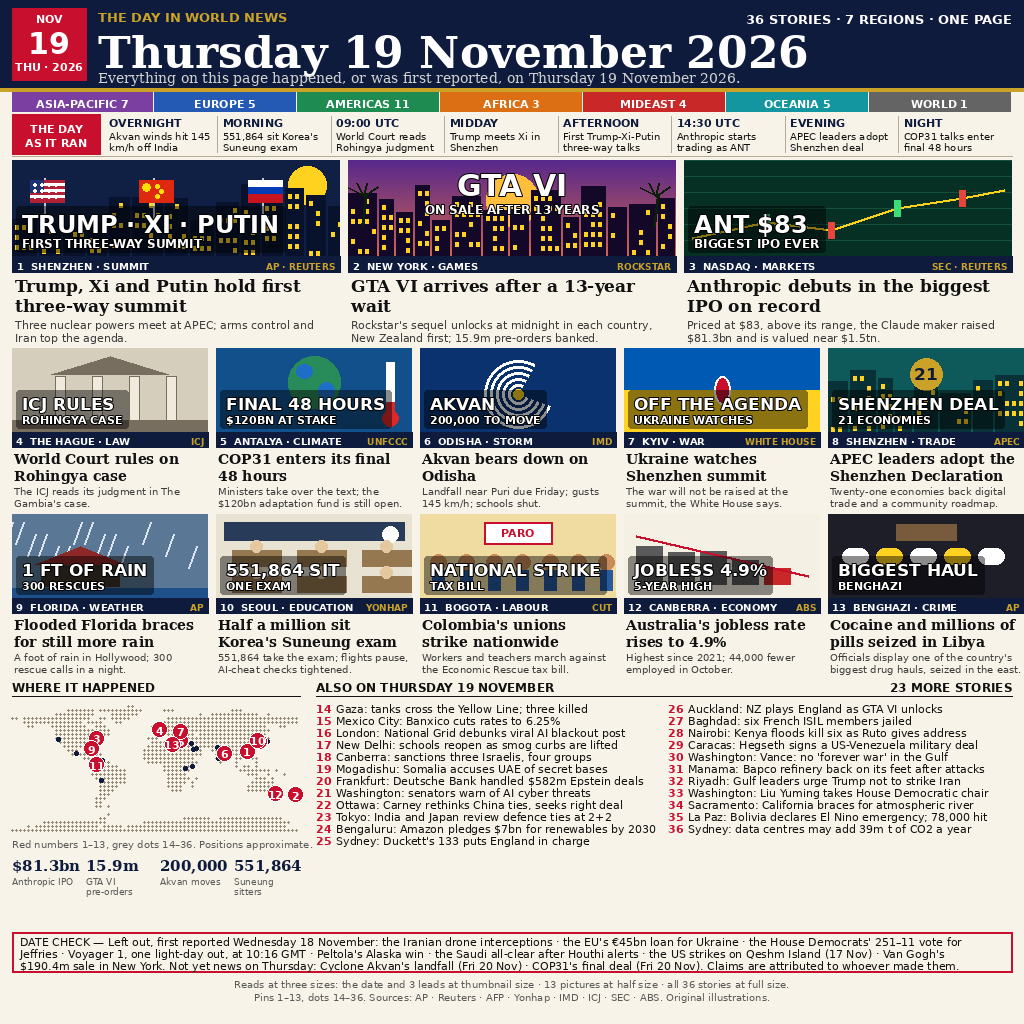
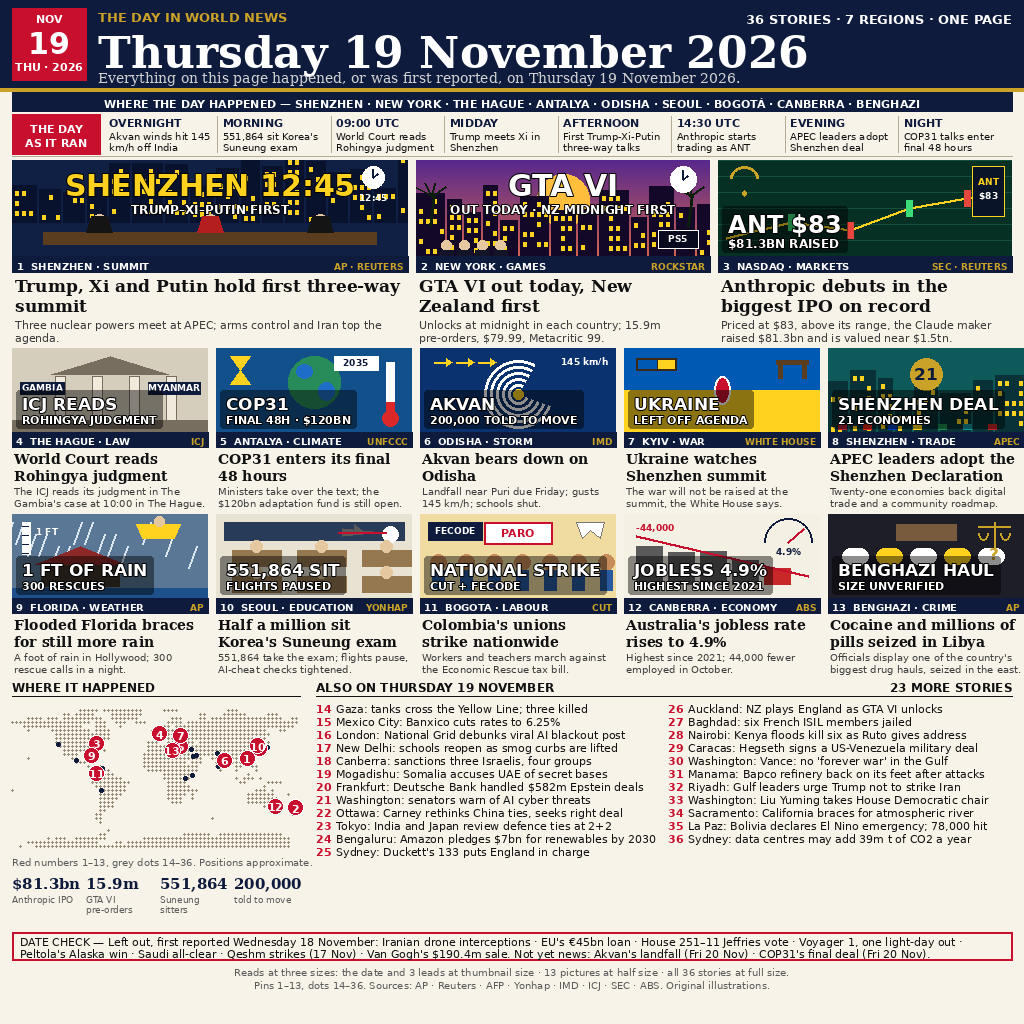
news-image-20261119 v2: DeepSeek (100milionseek) art direction - scenes not name-plates, rewritten labels, where-line, thin DATE CHECK

diff --git a/draw.py b/draw.py
@@ -1,10 +1,12 @@
 #!/usr/bin/env python3
-"""news-image-20261119 v1: 36 stories, UTC timeline, region strip, short in-art labels.
+"""news-image-20261119 v2: 36 stories, DeepSeek (100milionseek) art direction.
 Draws entry.png (1024x1024, deterministic) from world.geo.json only.
-Art is flat vector drawn in code (no photo assets), in the style of the
-entries leading the live leaderboard for this day: navy masthead, 3 heroes,
-10 small cards, map + also-strip, DATE CHECK. Every front picture carries a
-short to-the-point label inside the picture itself.
+v2 vs v1: heroes are scenes not name-plates (leaders at a table, NZ midnight
+queue, Nasdaq tower + bell); labels rewritten 2-line rstrike style; region
+counts replaced by a where-the-day-happened line; DATE CHECK shrunk to a
+thin band; lead hero 396 wide; stats $81.3bn / 15.9m / 551,864 / 200,000
+told to move. Every front picture carries a short to-the-point label inside
+the picture itself.
 Run: python3 draw.py  -> writes entry.png in this directory."""
 import json
 import math
@@ -86,31 +88,31 @@ FRONT = [
     (1, "SHENZHEN", "SUMMIT", "AP \u00b7 REUTERS",
      "Trump, Xi and Putin hold first three-way summit",
      "Three nuclear powers meet at APEC; arms control and Iran top the agenda.",
-     "TRUMP \u00b7 XI \u00b7 PUTIN", "FIRST THREE-WAY SUMMIT", "summit"),
+     "SHENZHEN 12:45", "TRUMP\u2013XI\u2013PUTIN FIRST", "summit"),
     (2, "NEW YORK", "GAMES", "ROCKSTAR",
-     "GTA VI arrives after a 13-year wait",
-     "Rockstar's sequel unlocks at midnight in each country, New Zealand first; 15.9m pre-orders banked.",
-     "GTA VI", "ON SALE AFTER 13 YEARS", "gta"),
+     "GTA VI out today, New Zealand first",
+     "Unlocks at midnight in each country; 15.9m pre-orders, $79.99, Metacritic 99.",
+     "GTA VI", "OUT TODAY \u00b7 NZ MIDNIGHT FIRST", "gta"),
     (3, "NASDAQ", "MARKETS", "SEC \u00b7 REUTERS",
      "Anthropic debuts in the biggest IPO on record",
      "Priced at $83, above its range, the Claude maker raised $81.3bn and is valued near $1.5tn.",
-     "ANT $83", "BIGGEST IPO EVER", "anthropic"),
+     "ANT $83", "$81.3BN RAISED", "anthropic"),
     (4, "THE HAGUE", "LAW", "ICJ",
-     "World Court rules on Rohingya case",
-     "The ICJ reads its judgment in The Gambia's case.",
-     "ICJ RULES", "ROHINGYA CASE", "icj"),
+     "World Court reads Rohingya judgment",
+     "The ICJ reads its judgment in The Gambia's case at 10:00 in The Hague.",
+     "ICJ READS", "ROHINGYA JUDGMENT", "icj"),
     (5, "ANTALYA", "CLIMATE", "UNFCCC",
      "COP31 enters its final 48 hours",
      "Ministers take over the text; the $120bn adaptation fund is still open.",
-     "FINAL 48 HOURS", "$120BN AT STAKE", "cop31"),
+     "COP31", "FINAL 48H \u00b7 $120BN", "cop31"),
     (6, "ODISHA", "STORM", "IMD",
      "Akvan bears down on Odisha",
      "Landfall near Puri due Friday; gusts 145 km/h; schools shut.",
-     "AKVAN", "200,000 TO MOVE", "akvan"),
+     "AKVAN", "200,000 TOLD TO MOVE", "akvan"),
     (7, "KYIV", "WAR", "WHITE HOUSE",
      "Ukraine watches Shenzhen summit",
      "The war will not be raised at the summit, the White House says.",
-     "OFF THE AGENDA", "UKRAINE WATCHES", "ukraine"),
+     "UKRAINE", "LEFT OFF AGENDA", "ukraine"),
     (8, "SHENZHEN", "TRADE", "APEC",
      "APEC leaders adopt the Shenzhen Declaration",
      "Twenty-one economies back digital trade and a community roadmap.",
@@ -122,19 +124,19 @@ FRONT = [
     (10, "SEOUL", "EDUCATION", "YONHAP",
      "Half a million sit Korea's Suneung exam",
      "551,864 take the exam; flights pause, AI-cheat checks tightened.",
-     "551,864 SIT", "ONE EXAM", "suneung"),
+     "551,864 SIT", "FLIGHTS PAUSED", "suneung"),
     (11, "BOGOTA", "LABOUR", "CUT",
      "Colombia's unions strike nationwide",
      "Workers and teachers march against the Economic Rescue tax bill.",
-     "NATIONAL STRIKE", "TAX BILL", "colombia"),
+     "NATIONAL STRIKE", "CUT + FECODE", "colombia"),
     (12, "CANBERRA", "ECONOMY", "ABS",
      "Australia's jobless rate rises to 4.9%",
      "Highest since 2021; 44,000 fewer employed in October.",
-     "JOBLESS 4.9%", "5-YEAR HIGH", "australia"),
+     "JOBLESS 4.9%", "HIGHEST SINCE 2021", "australia"),
     (13, "BENGHAZI", "CRIME", "AP",
      "Cocaine and millions of pills seized in Libya",
      "Officials display one of the country's biggest drug hauls, seized in the east.",
-     "BIGGEST HAUL", "BENGHAZI", "libya"),
+     "BENGHAZI HAUL", "SIZE UNVERIFIED", "libya"),
 ]
 
 # num, city, text
@@ -167,8 +169,8 @@ ALSO = [
 STATS = [
     ("$81.3bn", "Anthropic IPO"),
     ("15.9m", "GTA VI pre-orders"),
-    ("200,000", "Akvan moves"),
     ("551,864", "Suneung sitters"),
+    ("200,000", "told to move"),
 ]
 
 PINS = {
@@ -290,12 +292,19 @@ def art_image(key, w, h):
     d = ImageDraw.Draw(img)
     if key == "summit":
         d.rectangle([0, 0, w, h], fill=(16, 32, 68))
-        d.ellipse([w - 52, 6, w - 14, 44], fill=(255, 210, 31))
-        _skyline(d, w, h, h, (8, 18, 44), 7)
-        for i, kind in enumerate(["us", "cn", "ru"]):
-            fx = 18 + i * (w // 3)
-            d.line([fx + 14, 18, fx + 14, 62], fill=(200, 200, 200), width=2)
-            _flag(d, fx, 20, 34, 22, kind)
+        _skyline(d, w, h, h - 34, (8, 18, 44), 7)
+        # wall clock 12:45, top right (focal text occupies the centre top)
+        d.ellipse([w - 46, 6, w - 24, 28], fill="white")
+        d.line([w - 35, 17, w - 35, 9], fill=NAVY, width=2)
+        d.line([w - 35, 17, w - 30, 13], fill=NAVY, width=2)
+        d.text((w - 35, 32), "12:45", font=F_SRC, fill="white", anchor="ma")
+        # three leaders seated at one round table (below the focal text)
+        d.rectangle([w * 0.08, h - 24, w * 0.92, h - 12], fill=(90, 60, 30))
+        for i in range(3):
+            cx = int(w * (0.22 + i * 0.28))
+            d.ellipse([cx - 9, h - 42, cx + 9, h - 24], fill=(230, 200, 160))
+            d.polygon([(cx - 13, h - 24), (cx + 13, h - 24), (cx + 8, h - 40),
+                       (cx - 8, h - 40)], fill=(20, 20, 20) if i != 1 else (180, 30, 30))
     elif key == "gta":
         for i in range(h):
             t = i / h
@@ -310,6 +319,17 @@ def art_image(key, w, h):
                 d.line([px + 2, h - 60, px + 2 + int(22 * math.sin(math.radians(a))),
                         h - 60 - int(14 * abs(math.cos(math.radians(a))))],
                        fill=(10, 30, 10), width=2)
+        # NZ midnight: clock striking 12 top right, queue outside a shop, PS5 box
+        d.ellipse([w - 40, 6, w - 14, 32], fill="white")
+        d.line([w - 27, 19, w - 27, 10], fill=NAVY, width=2)
+        d.line([w - 27, 19, w - 22, 15], fill=NAVY, width=2)
+        d.rectangle([w - 52, h - 26, w - 12, h - 8], fill=(10, 10, 30),
+                    outline="white", width=1)
+        d.text((w - 32, h - 17), "PS5", font=F_SRC, fill="white", anchor="mm")
+        for i in range(4):
+            cx = 30 + i * 18
+            d.ellipse([cx - 5, h - 16, cx + 5, h - 6], fill=(230, 200, 160))
+            d.rectangle([cx - 7, h - 6, cx + 7, h], fill=(20, 20, 40))
     elif key == "anthropic":
         d.rectangle([0, 0, w, h], fill=(6, 48, 36))
         for gy in range(0, h, 16):
@@ -321,6 +341,13 @@ def art_image(key, w, h):
         for i, (cx, cy) in enumerate(pts[1:-1]):
             col = (60, 220, 120) if i % 2 == 0 else (230, 70, 60)
             d.rectangle([cx - 3, cy - 8, cx + 3, cy + 8], fill=col)
+        # Nasdaq tower with ANT screen + opening bell
+        d.rectangle([w - 40, 6, w - 8, h - 40], fill=(10, 20, 40),
+                    outline=(255, 210, 31), width=1)
+        d.text((w - 24, 16), "ANT", font=F_SRC, fill=(255, 210, 31), anchor="ma")
+        d.text((w - 24, 30), "$83", font=F_SRC, fill="white", anchor="ma")
+        d.arc([12, 6, 40, 30], 180, 360, fill=GOLD, width=3)
+        d.ellipse([24, 30, 28, 36], fill=GOLD)
     elif key == "icj":
         d.rectangle([0, 0, w, h], fill=(214, 206, 188))
         d.polygon([(w * 0.2, 26), (w * 0.8, 26), (w * 0.5, 8)], fill=(120, 110, 95))
@@ -329,6 +356,11 @@ def art_image(key, w, h):
             d.rectangle([cx, 28, cx + 10, h - 12], fill=(240, 234, 220),
                         outline=(120, 110, 95))
         d.rectangle([0, h - 12, w, h], fill=(120, 110, 95))
+        # nameplates Gambia v Myanmar (footprints dropped: scrim covers the bottom)
+        d.rectangle([8, 34, 52, 46], fill=NAVY)
+        d.text((30, 40), "GAMBIA", font=F_SRC, fill="white", anchor="mm")
+        d.rectangle([w - 60, 34, w - 8, 46], fill=NAVY)
+        d.text((w - 34, 40), "MYANMAR", font=F_SRC, fill="white", anchor="mm")
     elif key == "cop31":
         d.rectangle([0, 0, w, h], fill=(18, 80, 140))
         d.ellipse([w // 2 - 26, 8, w // 2 + 26, 60], fill=(40, 140, 90))
@@ -337,6 +369,11 @@ def art_image(key, w, h):
         d.rectangle([w - 26, 14, w - 18, h - 14], fill="white")
         d.rectangle([w - 26, h - 30, w - 18, h - 14], fill=(220, 40, 40))
         d.ellipse([w - 30, h - 22, w - 14, h - 6], fill=(220, 40, 40))
+        # 48-hour hourglass top left + draft page stamped 2035 top right
+        d.polygon([(14, 8), (34, 8), (24, 22), (14, 36), (34, 36), (24, 22)],
+                  fill=(255, 210, 31))
+        d.rectangle([w - 78, 8, w - 34, 22], fill="white")
+        d.text((w - 56, 15), "2035", font=F_SRC, fill=NAVY, anchor="mm")
     elif key == "akvan":
         d.rectangle([0, 0, w, h], fill=(10, 50, 110))
         cx, cy = w // 2, h // 2 + 4
@@ -344,16 +381,37 @@ def art_image(key, w, h):
             d.arc([cx - r, cy - r, cx + r, cy + r], 20, 300,
                   fill=(255, 255, 255), width=3)
         d.ellipse([cx - 5, cy - 5, cx + 5, cy + 5], fill=(255, 210, 31))
+        # arrows inland, top left (scrim covers the bottom) + 145 km/h gauge
+        for i in range(3):
+            ax = 14 + i * 22
+            d.line([ax, 14, ax + 12, 14], fill=YELLOW, width=2)
+            d.polygon([(ax + 12, 10), (ax + 12, 18), (ax + 18, 14)],
+                      fill=YELLOW)
+        d.text((w - 8, 8), "145 km/h", font=F_SRC, fill="white", anchor="ra")
     elif key == "ukraine":
         d.rectangle([0, 0, w, h // 2], fill=(0, 90, 180))
         d.rectangle([0, h // 2, w, h], fill=(255, 210, 31))
         d.ellipse([w // 2 - 8, h // 2 - 14, w // 2 + 8, h // 2 + 14],
                   fill=RED, outline="white", width=2)
+        # empty chair top right + folded flag in a closed briefcase top left
+        d.rectangle([w - 44, 12, w - 12, 16], fill=(90, 60, 30))
+        d.rectangle([w - 42, 16, w - 38, 30], fill=(90, 60, 30))
+        d.rectangle([w - 18, 16, w - 14, 30], fill=(90, 60, 30))
+        d.rectangle([12, 10, 52, 22], fill=(60, 40, 20))
+        d.rectangle([14, 12, 32, 20], fill=(0, 90, 180))
+        d.rectangle([34, 12, 50, 20], fill=(255, 210, 31))
     elif key == "apec":
         d.rectangle([0, 0, w, h], fill=(14, 90, 90))
         _skyline(d, w, h, h, (8, 50, 55), 21)
         d.ellipse([w // 2 - 16, 10, w // 2 + 16, 42], fill=GOLD)
         d.text((w // 2, 26), "21", font=F_ART2, fill=NAVY, anchor="mm")
+        # ring of mini flags along the bottom edge (signed page dropped: scrim covers it)
+        for i in range(7):
+            fx = 10 + i * (w - 20) // 7
+            d.rectangle([fx, h - 8, fx + 8, h - 3],
+                        fill=[(178, 34, 52), (222, 41, 16), (0, 60, 180),
+                              (255, 210, 31), (30, 140, 80), (20, 150, 160),
+                              (200, 40, 40)][i])
     elif key == "florida":
         d.rectangle([0, 0, w, h], fill=(90, 120, 150))
         for i in range(14):
@@ -364,6 +422,14 @@ def art_image(key, w, h):
         d.polygon([(w * 0.12, h - 34), (w * 0.35, h - 52), (w * 0.58, h - 34)],
                   fill=(140, 40, 40))
         d.rectangle([0, h - 10, w, h], fill=(30, 80, 140))
+        # 1-ft ruler top left + rescue boat top right (scrim covers the bottom)
+        d.rectangle([10, 8, 18, 40], fill="white")
+        for i in range(4):
+            d.line([10, 12 + i * 9, 16, 12 + i * 9], fill=NAVY, width=1)
+        d.text((24, 12), "1 FT", font=F_SRC, fill="white")
+        d.polygon([(w - 72, 10), (w - 28, 10), (w - 34, 24),
+                   (w - 66, 24)], fill=(255, 210, 31))
+        d.ellipse([w - 54, 2, w - 44, 12], fill=(230, 200, 160))
     elif key == "suneung":
         d.rectangle([0, 0, w, h], fill=(232, 226, 210))
         d.rectangle([8, 8, w - 8, 26], fill=(40, 60, 90))
@@ -375,6 +441,10 @@ def art_image(key, w, h):
                 d.rectangle([x, y, x + w // 4, y + 16], fill=(150, 120, 80))
                 d.ellipse([x + w // 8 - 6, y - 10, x + w // 8 + 6, y + 2],
                           fill=(230, 200, 160))
+        # plane held overhead, flights paused
+        d.polygon([(w - 70, 14), (w - 30, 18), (w - 70, 22)], fill=(90, 90, 90))
+        d.polygon([(w - 58, 10), (w - 48, 18), (w - 58, 20)], fill=(90, 90, 90))
+        d.line([w - 74, 18, w - 26, 18], fill=RED, width=2)
     elif key == "colombia":
         d.rectangle([0, 0, w, h], fill=(240, 220, 160))
         for i in range(7):
@@ -384,6 +454,12 @@ def art_image(key, w, h):
         d.rectangle([w // 2 - 34, 8, w // 2 + 34, 30], fill="white",
                     outline=RED, width=2)
         d.text((w // 2, 19), "PARO", font=F_ART2_S, fill=RED, anchor="mm")
+        # second union banner top left + torn tax-bill page top right
+        d.rectangle([8, 8, 62, 26], fill=NAVY)
+        d.text((35, 17), "FECODE", font=F_SRC, fill="white", anchor="mm")
+        d.polygon([(w - 40, 8), (w - 12, 8), (w - 16, 24),
+                   (w - 26, 16), (w - 34, 24)], fill="white",
+                  outline=(120, 120, 120))
     elif key == "australia":
         d.rectangle([0, 0, w, h], fill=(245, 240, 228))
         vals = [0.72, 0.6, 0.62, 0.45, 0.3]
@@ -393,6 +469,11 @@ def art_image(key, w, h):
             d.rectangle([x, h - 14 - int(v * (h - 30)), x + bw - 6, h - 14],
                         fill=(200, 40, 40) if i == len(vals) - 1 else (90, 90, 90))
         d.line([(12, 22), (w - 12, h - 22)], fill=RED, width=3)
+        # gauge needle at 4.9% + -44,000 ledger line (both above the scrim)
+        d.arc([w - 56, 4, w - 8, 52], 180, 360, fill=NAVY, width=2)
+        d.line([w - 32, 28, w - 16, 14], fill=RED, width=2)
+        d.text((w - 32, 32), "4.9%", font=F_SRC, fill=NAVY, anchor="ma")
+        d.text((12, 8), "-44,000", font=F_SRC, fill=RED)
     elif key == "libya":
         d.rectangle([0, 0, w, h], fill=(30, 30, 40))
         for i in range(5):
@@ -400,6 +481,12 @@ def art_image(key, w, h):
             d.rounded_rectangle([x, h // 2 - 8, x + 26, h // 2 + 8], radius=8,
                                 fill="white" if i % 2 == 0 else (255, 210, 31))
         d.rectangle([w // 2 - 30, 10, w // 2 + 30, 26], fill=(120, 90, 60))
+        # balance scale with a "?" — quantity unverified, no number shown
+        d.line([w - 30, 8, w - 30, 34], fill=GOLD, width=2)
+        d.line([w - 46, 12, w - 14, 12], fill=GOLD, width=2)
+        d.arc([w - 46, 12, w - 36, 26], 0, 180, fill=GOLD, width=2)
+        d.arc([w - 24, 12, w - 14, 26], 0, 180, fill=GOLD, width=2)
+        d.text((w - 30, 30), "?", font=F_ART2, fill=GOLD, anchor="ma")
     return img
 
 
@@ -469,14 +556,11 @@ def main():
            font=F_EYE, fill="white", anchor="ra")
     d.rectangle([0, 88, W, 91], fill=GOLD)
 
-    # ---- region strip 92-111 ----
-    x = 12
-    segw = (W - 24) / 7.0
-    for name, count, col in REGIONS:
-        d.rectangle([x, 92, x + segw - 2, 111], fill=col)
-        d.text((x + segw / 2 - 1, 97), "%s %d" % (name, count),
-               font=F_REG, fill="white", anchor="ma")
-        x += segw
+    # ---- where-the-day-happened strip 92-111 (no unverifiable region counts) ----
+    d.rectangle([12, 92, 1012, 111], fill=NAVY)
+    d.text((512, 97), "WHERE THE DAY HAPPENED \u2014 SHENZHEN \u00b7 NEW YORK \u00b7 THE HAGUE \u00b7 "
+           "ANTALYA \u00b7 ODISHA \u00b7 SEOUL \u00b7 BOGOT\u00c1 \u00b7 CANBERRA \u00b7 BENGHAZI",
+           font=F_REG, fill="white", anchor="ma")
 
     # ---- UTC timeline 114-154 ----
     d.rectangle([12, 114, 100, 154], fill=RED)
@@ -494,14 +578,17 @@ def main():
             d.text((cx + 5, 130 + j * 11), ln, font=F_TTEXT, fill=INK)
     d.line([12, 156, W - 12, 156], fill=RULE, width=1)
 
-    # ---- heroes 160-342 (3 x 328 wide, art 96 tall) ----
+    # ---- heroes 160-342: lead 396 wide, rails 294 (hierarchy, not equal thirds) ----
     hy = 160
-    hw = 328
+    hws = [396, 294, 294]
     for i, (num, reg, topic, src, head, deck, big, small, key) in enumerate(FRONT[:3]):
-        cx = 12 + i * (hw + 8)
+        hw = hws[i]
+        cx = 12 + sum(hws[:i]) + 8 * i
         im = art_image(key, hw, 96)
         idd = ImageDraw.Draw(im)
-        if num == 2:
+        if num == 1:
+            focal_text(idd, 0, 0, hw, 96, big, small, F_FOC, F_FOC_S, "YELLOW", True)
+        elif num == 2:
             focal_text(idd, 0, 0, hw, 96, big, small, F_FOC, F_FOC_S, "WHITE", True)
         else:
             art_text(im, idd, 0, 0, hw, 96, big, small, F_ART, F_ART_S)
@@ -544,17 +631,17 @@ def main():
                 d.text((cx + 2, cy + 102 + len(lines) * 17 + 1 + j * 12),
                        ln, font=F_DECK_S, fill=(60, 60, 60))
 
-    # ---- map + also 680-926 ----
+    # ---- map + also 680-926 (map taller, also-list roomier) ----
     my = 680
     d.text((12, my), "WHERE IT HAPPENED", font=F_SEC, fill=INK)
     d.line([12, my + 16, 300, my + 16], fill=INK, width=1)
-    draw_map(d, 12, my + 22, 288, 132)
-    d.text((12, my + 158), "Red numbers 1\u201313, grey dots 14\u201336. Positions approximate.",
+    draw_map(d, 12, my + 22, 288, 150)
+    d.text((12, my + 176), "Red numbers 1\u201313, grey dots 14\u201336. Positions approximate.",
            font=F_TTEXT, fill=GREY)
     # stats: one row of 4 under the map
     for si, (val, cap) in enumerate(STATS):
         sx = 12 + si * 74
-        sy = my + 176
+        sy = my + 194
         d.text((sx, sy), val, font=F_STAT_S, fill=NAVY)
         clines = wrap(d, cap, F_STATC, 70, max_lines=2)
         for j, ln in enumerate(clines):
@@ -570,28 +657,26 @@ def main():
         col = 0 if i < rows else 1
         row = i if i < rows else i - rows
         x = ax + col * (colw + 8)
-        y = my + 22 + row * 12
+        y = my + 22 + row * 13
         d.text((x, y), "%d" % num, font=F_ALSO_N, fill=RED)
         full = "%s: %s" % (city, txt)
         lines = wrap(d, full, F_ALSO, colw - 22, max_lines=1)
         d.text((x + 20, y), lines[0] if lines else "", font=F_ALSO, fill=INK)
 
-    # ---- date check 932-972 ----
+    # ---- date check 932-960: thin 2-line band (was a 40px box) ----
     dy = 932
-    d.rectangle([12, dy, 1012, dy + 40], outline=RED, width=2)
-    chk = ("DATE CHECK \u2014 Left out, first reported Wednesday 18 November: the Iranian drone "
-           "interceptions \u00b7 the EU's \u20ac45bn loan for Ukraine \u00b7 the House Democrats' 251\u201311 "
-           "vote for Jeffries \u00b7 Voyager 1, one light-day out, at 10:16 GMT \u00b7 Peltola's Alaska win "
-           "\u00b7 the Saudi all-clear after Houthi alerts \u00b7 the US strikes on Qeshm Island (17 Nov) "
-           "\u00b7 Van Gogh's $190.4m sale in New York. Not yet news on Thursday: Cyclone Akvan's "
-           "landfall (Fri 20 Nov) \u00b7 COP31's final deal (Fri 20 Nov). Claims are attributed to "
-           "whoever made them.")
-    clines = wrap(d, chk, F_DATECHK, 976, max_lines=3)
+    d.rectangle([12, dy, 1012, dy + 28], outline=RED, width=2)
+    chk = ("DATE CHECK \u2014 Left out, first reported Wednesday 18 November: Iranian drone "
+           "interceptions \u00b7 EU's \u20ac45bn loan \u00b7 House 251\u201311 Jeffries vote \u00b7 "
+           "Voyager 1, one light-day out \u00b7 Peltola's Alaska win \u00b7 Saudi all-clear \u00b7 "
+           "Qeshm strikes (17 Nov) \u00b7 Van Gogh's $190.4m sale. Not yet news: Akvan's landfall "
+           "(Fri 20 Nov) \u00b7 COP31's final deal (Fri 20 Nov).")
+    clines = wrap(d, chk, F_DATECHK, 976, max_lines=2)
     for j, ln in enumerate(clines):
         d.text((20, dy + 3 + j * 12), ln, font=F_DATECHK, fill=INK)
 
-    # ---- footer 978-1004 ----
-    fy = 978
+    # ---- footer 966-1004 ----
+    fy = 966
     d.text((512, fy), "Reads at three sizes: the date and 3 leads at thumbnail size \u00b7 "
            "13 pictures at half size \u00b7 all 36 stories at full size.",
            font=F_FOOT, fill=GREY, anchor="ma")

diff --git a/NOTES.md b/NOTES.md
@@ -10,3 +10,6 @@
 - Deliberately NOT front (18 Nov, in DATE CHECK): Iranian drone interceptions, EU €45bn loan, House 251–11 Jeffries vote, Voyager 1 light-day 10:16 GMT Wed, Peltola Alaska win, Saudi all-clear, Qeshm strikes (17 Nov), Van Gogh $190.4m sale. Gaza tanks (Wed 18 Nov operation) is also #14, not a hero.
 - Image v1: entry.png 1024x1024, 254,181 bytes, sha256 6b3a3861bc7095c97497c6d8ec150adf211b5f86246f3be66917d9e71dd2ab92, deterministic (same sha twice, no truncation). 36 stories, 7 regions, 13 illustrated front, numbers strip $81.3bn / 15.9m / 200,000 / 551,864, map + 23 more. Art is flat vector drawn in draw.py code (no photo assets).
 - NOT submitted. Shown to user first; submit ONLY on the user's explicit word "submit".
+- Repo: https://github.com/albertod12-ops/news-image-20261119-bot (public, MIT), branch main, commit 3ee9de3556d7e806d3b5ac409b5f67abd98a1752. Anchor drand round 34092281, root 9edfbb709fed9656a25c9b084a71ad5c32d7af30. .makefun/owner.json wallet EPYJEcpN3QsNXAxXBscS66bezpKQpDB3QgAheDYqfiQC.
+- Bundle/gate: PENDING at delivery — bundle dry-run found this session (c078fc2b, 52 turns, prompt + system prompt OK) but 0 usage rows: Muse writes usage rows when this turn's message is delivered. At submit time: re-extract usage rows for agent c078fc2b, bundle with --no-discover --session <this session> --no-family (earlier 20261118 sessions must NOT be included — pre-opening turns), then pre-submit-gate.py loose mode with the bundle. Submit only on user's word "submit" and only on GATE: ALLOW SUBMIT.
+- Quota 20261119: 0 of 3 used at delivery (re-verify live at submit time).
